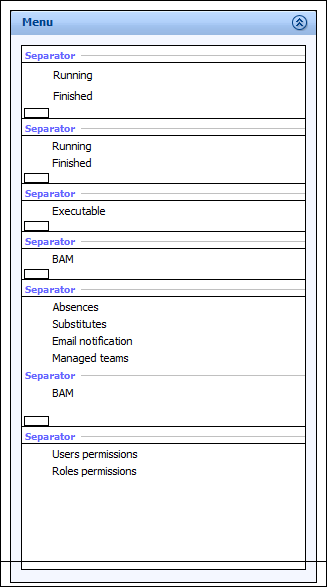
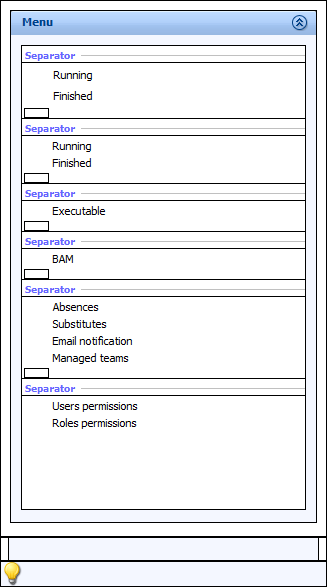
* hide the link until the integration was done * reviewed by nobody
Former-commit-id: d5f374827b6368d2f86dfdc160a7d5d05459db3d

Changed region(s): [[0.0612, 0.6133, 0.9174, 0.8279], [0.0, 0.8586, 0.9786, 1.0]]

diff --git a/WorkflowUI/src_rd/ch/ivyteam/ivy/workflow/ui/UserMenu/UserMenuPanel.java b/WorkflowUI/src_rd/ch/ivyteam/ivy/workflow/ui/UserMenu/UserMenuPanel.java
@@ -103,6 +103,7 @@ private RGridBagLayoutPane getUserMenuGridBagLayoutPane() {
 		Filler.setBorder(BorderFactory.createLineBorder(new Color(102, 102, 255), 1));
 		RFiller userMenuFiller111 = new RFiller();
 		userMenuFiller111.setStyle("strutW25H10");
+		userMenuFiller111.setVisible(false);
 		RFiller userMenuFiller11 = new RFiller();
 		userMenuFiller11.setStyle("strutW25H10");
 		RFiller userMenuFiller1 = new RFiller();
@@ -566,6 +567,7 @@ private ULCContainer getBAMSeparatorPanel() {
 	if (BAMSeparatorPanel == null) {
 		BAMSeparatorPanel = RichDialogPanelFactory.create(SeparatorPanel.class);
 		BAMSeparatorPanel.setName("BAMSeparatorPanel");
+		BAMSeparatorPanel.setVisible(false);
 	}
 	return BAMSeparatorPanel;
 }
@@ -582,6 +584,7 @@ private RHyperlink getBamHyperlink() {
 		bamHyperlink.setText("BAM");
 		bamHyperlink.setClickedColor(new Color(0, 0, 0));
 		bamHyperlink.setUnclickedColor(new Color(0, 0, 0));
+		bamHyperlink.setVisible(false);
 		bamHyperlink.setToolTipText("<%=ivy.cms.co(\"/ch/ivyteam/ivy/workflow/ui/administration/plainStrings/absenceLongDesc\")%>");
 	}
 	return bamHyperlink;
